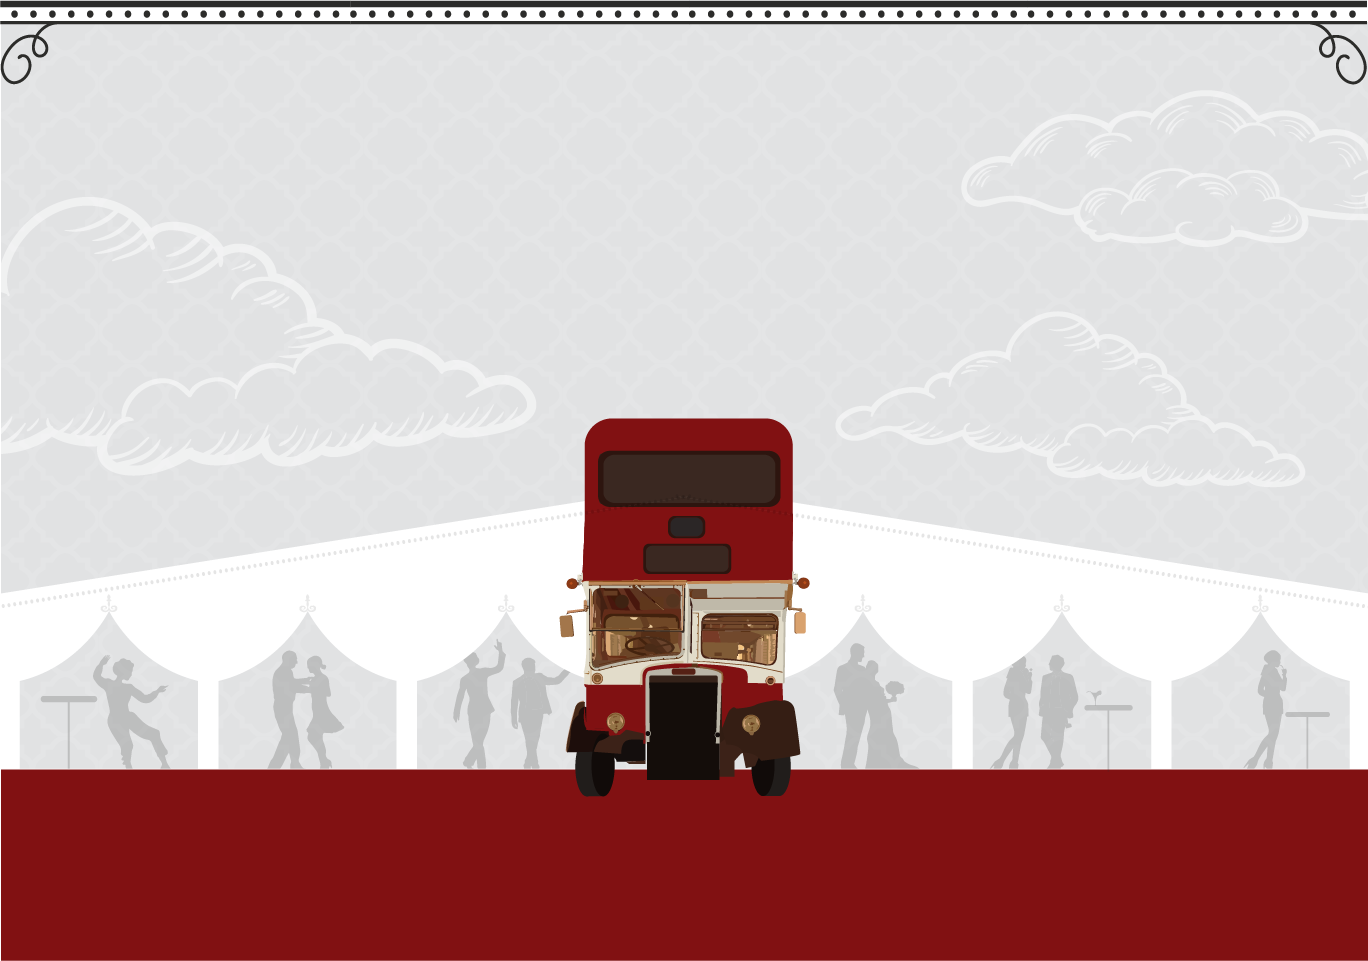
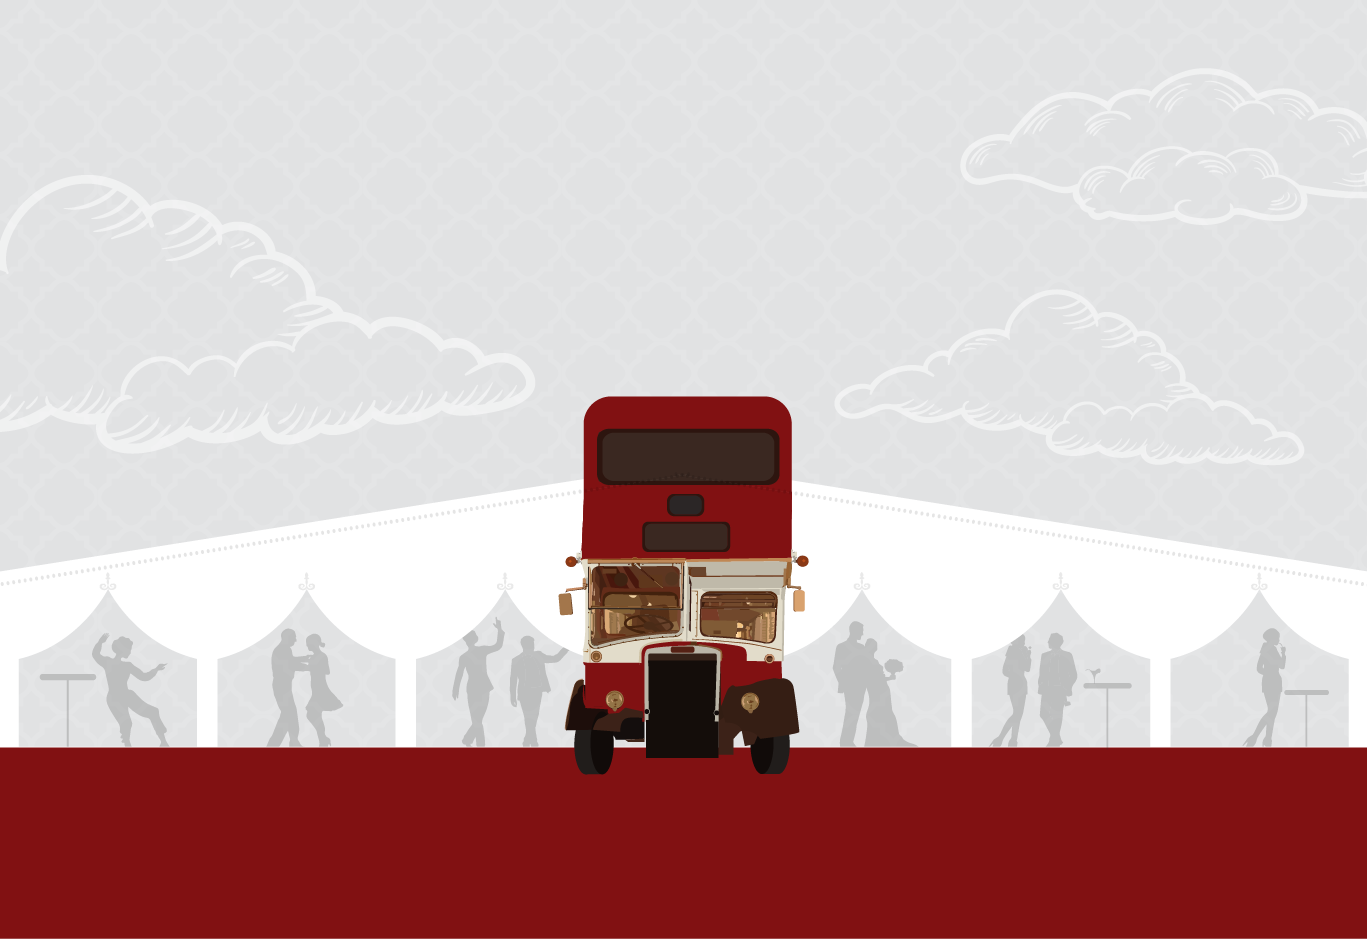
fixed parteis page components

diff --git a/src/components/VenueSection.js b/src/components/VenueSection.js
@@ -2,7 +2,7 @@ import React from 'react';
 import styled from 'styled-components';
 
 const Section = styled.div`
-  background-image: url(${props => props.FrameBgImage});
+  background-image: url(${props => props.frameBgImage});
   background-repeat: no-repeat;
   background-size: cover;
   .text {
@@ -12,55 +12,33 @@ const Section = styled.div`
     transform: translate(-50%, -50%);
     font-size: 1.6rem;
   }
+  .columns {
+    justify-content: ${props => (props.flex ? 'flex-end' : 'flex-start')};
+  }
 `;
 const ImageWrapper = styled.div`
   position: relative;
 `;
 
-class VenueSection extends React.Component {
-  render() {
-    const {
-      leftFrame,
-      leftText,
-      rightFrame,
-      rightText,
-      leftAlt,
-      rightAlt,
-      FrameBgImage,
-    } = this.props;
-    return (
-      <Section
-        className="hero section is-block is-relative  is-large"
-        FrameBgImage={FrameBgImage}
-      >
-        <div className="container">
-          <div className="columns is-vcentered is-desktop">
-            <div className="column is-5-desktop">
-              <ImageWrapper>
-                <figure className="image">
-                  <img src={leftFrame} alt={leftAlt} />
-                </figure>
-                <p className="text has-text-centered has-text-black">
-                  {leftText}
-                </p>
-              </ImageWrapper>
-            </div>
-            <div className="column is-2" />
-            <div className="column is-5-desktop">
-              <ImageWrapper>
-                <figure className="image">
-                  <img src={rightFrame} alt={rightAlt} />
-                </figure>
-                <p className="text has-text-centered has-text-white">
-                  {rightText}
-                </p>
-              </ImageWrapper>
-            </div>
-          </div>
+const VenueSection = ({ leftFrame, leftText, leftAlt, frameBgImage, flex }) => (
+  <Section
+    className="hero section is-block is-relative  is-large"
+    frameBgImage={frameBgImage}
+    flex={flex}
+  >
+    <div className="container">
+      <div className="columns is-vcentered is-desktop">
+        <div className="column is-5-desktop">
+          <ImageWrapper>
+            <figure className="image">
+              <img src={leftFrame} alt={leftAlt} />
+            </figure>
+            <p className="text has-text-centered has-text-black">{leftText}</p>
+          </ImageWrapper>
         </div>
-      </Section>
-    );
-  }
-}
+      </div>
+    </div>
+  </Section>
+);
 
 export default VenueSection;

diff --git a/src/pages/partiesPage.js b/src/pages/partiesPage.js
@@ -9,35 +9,34 @@ import VenueSection from '../components/VenueSection';
 import DetailsCardSection from '../components/DetailsCardSection';
 import Gallery from '../components/Gallery';
 
-export default class PartiesPage extends React.Component {
-  render() {
-    return (
-      <Layout>
-        <Seo title="Home" description="Welcome to GatsbyJs v1" />
-        <PartiesHero
-          title="Parties for all occasions"
-          partybgImage="/images/parties/photo@2x.png"
-        />
-        <PageHeading
-          subtitle="The bus provides an amazing focal point, and provides
+const PartiesPage = () => (
+  <Layout>
+    <Seo title="Home" description="Welcome to GatsbyJs v1" />
+    <PartiesHero
+      title="Parties for all occasions"
+      partybgImage="/images/parties/photo@2x.png"
+    />
+    <PageHeading
+      title="The bus provides an amazing focal point, and provides
           many different zones for your party."
-        />
-        <StagesSection title="Stages" />
-        <VenueSection
-          leftFrame="/images/parties/frame@2x.png"
-          leftText="We remain on site to look after everything from start to finish."
-          leftAlt="main"
-          FrameBgImage=" /images/parties/photo-black-and-white@2x.png"
-        />
-        <DetailsCardSection />
-        <VenueSection
-          rightFrame="/images/parties/rightframes.png"
-          rightText="Your guests will be amazed when they walk into the marquee and see a double decker bus inside. "
-          rightAlt="main"
-          FrameBgImage=" /images/parties/photo-black-and-white@2x.png"
-        />
-        <Gallery />
-      </Layout>
-    );
-  }
-}
+    />
+    <StagesSection />
+    <VenueSection
+      leftFrame="/images/parties/frame@2x.png"
+      leftText="We remain on site to look after everything from start to finish."
+      leftAlt="main"
+      frameBgImage="/images/parties/photo-black-and-white@2x.png"
+    />
+    <DetailsCardSection />
+    <VenueSection
+      flex
+      leftFrame="/images/parties/rightframes.png"
+      leftText="Your guests will be amazed when they walk into the marquee and see a double decker bus inside. "
+      leftAlt="main"
+      frameBgImage="/images/parties/photo-black-and-white@2x.png"
+    />
+    <Gallery />
+  </Layout>
+);
+
+export default PartiesPage;

diff --git a/src/components/StagesSection.js b/src/components/StagesSection.js
@@ -4,36 +4,36 @@ import Stages from './Stages';
 
 import Heading from './elments/Heading';
 
-class StagesSection extends React.Component {
-  render() {
-    const { title } = this.props;
-    return (
-      <section className="section">
-        <div className="container">
-          <Heading title={title} />
-          <div className="columns is-multiline">
-            <Stages
-              title="1. Choose your location"
-              subtitle="We can bring our unique venue to a location of your choosing, or
+const StagesSection = () => (
+  <section className="section">
+    <div className="container">
+      <Heading heading="THREE SIMPLE STAGES" />
+      <div className="columns is-multiline">
+        <Stages
+          title="1. Choose your location"
+          subtitle="We can bring our unique venue to a location of your choosing, or
               you can host your party at our fully-equipped event space in the
               Coleshill"
-            />
-            <Stages
-              title="1. Choose your location"
-              subtitle="We can bring our unique venue to a location of your choosing, or
+          image="/images/parties/icon@2x.png"
+          alt="dddddd" // change this as per your image
+        />
+        <Stages
+          title="1. Choose your location"
+          subtitle="We can bring our unique venue to a location of your choosing, or
               you can host your party at our fully-equipped event space in
               Coleshill"
-            />
-            <Stages
-              title="1. Choose your location"
-              subtitle="We can bring our unique venue to a location of your choosing, or
+          image="/images/parties/icon@2x.png"
+        />
+        <Stages
+          title="1. Choose your location"
+          subtitle="We can bring our unique venue to a location of your choosing, or
               you can host your party at our fully-equipped event space in
               Coleshill"
-            />
-          </div>
-        </div>
-      </section>
-    );
-  }
-}
+          image="/images/parties/icon@2x.png"
+        />
+      </div>
+    </div>
+  </section>
+);
+
 export default StagesSection;

diff --git a/src/pages/hire.js b/src/pages/hire.js
@@ -27,16 +27,16 @@ export default class HirePage extends React.Component {
         />
         <HireOptionItem
           flex
-          image="/images/hire/bus.png"
-          option="Hire Option 1"
+          image="/images/hire/bus-house.png"
+          option="Hire Option 2"
           title="Vintage Bus Bar"
           description="You can hire our fabulous vintage bus bar
           to give your event a stand out bar."
           price="£500.00"
         />
         <HireOptionItem
-          image="/images/hire/bus.png"
-          option="Hire Option 1"
+          image="/images/hire/bar-bus.png"
+          option="Hire Option 3"
           title="Vintage Bus Bar"
           description="You can hire our fabulous vintage bus bar
           to give your event a stand out bar."
@@ -44,8 +44,8 @@ export default class HirePage extends React.Component {
         />
         <HireOptionItem
           flex
-          image="/images/hire/bus.png"
-          option="Hire Option 1"
+          image="/images/hire/bus-decoration.png"
+          option="Hire Option 4"
           title="Vintage Bus Bar"
           description="You can hire our fabulous vintage bus bar
           to give your event a stand out bar."

diff --git a/src/components/PartiesHero.js b/src/components/PartiesHero.js
@@ -23,13 +23,16 @@ const Section = styled.div`
     align-items: center;
     justify-content: center;
   }
+  h1 {
+    font-size: 4rem;
+  }
 `;
 
 class PartiesHero extends React.Component {
   render() {
     const { title, partybgImage } = this.props;
     return (
-      <Section className="section  is-medium" partybgImage={partybgImage}>
+      <Section className="section is-medium" partybgImage={partybgImage}>
         <div className="image-wrapper">
           <figure className="image is-128x128">
             <img src="/images/parties/disco-ball-copy@2x.png" alt="" />
@@ -41,7 +44,7 @@ class PartiesHero extends React.Component {
               <figure className="">
                 <img src="/images/parties/t2x.png" alt="" />
               </figure>
-              <h1 className="title is-1  is-size-4-mobile centered has-text-white">
+              <h1 className="title is-size-4-mobile centered has-text-white">
                 {title}
               </h1>
             </div>

diff --git a/src/components/Stages.js b/src/components/Stages.js
@@ -4,21 +4,21 @@ import styled from 'styled-components';
 
 const ImageWrapper = styled.div`
   justify-content: center;
+  .image.is-128x128 {
+    height: 14rem;
+    width: 14rem;
+  }
 `;
 class Stages extends React.Component {
   render() {
-    const { title, subtitle } = this.props;
+    const { title, subtitle, image, alt } = this.props;
     return (
       <section className="column is-4 is-multiline">
         <div className="card-content">
           <div className="card-image">
             <ImageWrapper className="media align">
               <figure className="image is-128x128">
-                <img
-                  className="is-rounded"
-                  src="/images/parties/icon@2x.png"
-                  alt=""
-                />
+                <img className="is-rounded" src={image} alt={alt} />
               </figure>
             </ImageWrapper>
           </div>

diff --git a/src/components/HomeHero.js b/src/components/HomeHero.js
@@ -8,20 +8,20 @@ const Section = styled.section`
   background-repeat: no-repeat;
   background-position: center;
   background-size: cover;
-  /* flex: 30 !important; */
   .columns.is-centered {
-    /* margin-top: 40rem; */
-    align-items: flex-end;
+    margin-top: 40rem;
   }
 `;
 
 const MovingLeftContainer = styled.div`
   position: absolute;
   left: 0;
+  bottom: 9rem;
 `;
 const MovingRightContainer = styled.div`
   position: absolute;
   right: 0;
+  bottom: 9rem;
 `;
 
 const FireworkContainer = styled.div`
@@ -57,7 +57,7 @@ const HomeHero = () => {
   // }, []);
 
   return (
-    <Section className="section is-large">
+    <Section className="section">
       <div className="container">
         <figure className="image">
           <img src="/images/home/title-banner@2x.png" alt="" />

diff --git a/src/components/PageHeading.js b/src/components/PageHeading.js
@@ -15,10 +15,14 @@ const PageHeading = props => {
       <div className="container">
         <div className="columns is-centered">
           <div className="column has-text-centered">
-            <h1 className="title is-1 has-text-white is-spaced">{title}</h1>
-            <h1 className="subtitle is-3 has-text-white has-text-centered">
-              {subtitle}
-            </h1>
+            {title && (
+              <h1 className="title is-1 has-text-white is-spaced">{title}</h1>
+            )}
+            {subtitle && (
+              <h1 className="subtitle is-3 has-text-white has-text-centered">
+                {subtitle}
+              </h1>
+            )}
           </div>
         </div>
       </div>

diff --git a/src/components/elments/Heading.js b/src/components/elments/Heading.js
@@ -6,13 +6,13 @@ const Wrapper = styled.h1`
   letter-spacing: 0.2rem;
 `;
 
-const Heading = ({ title, size, color }) => (
+const Heading = ({ heading, size, color }) => (
   <Wrapper
     className={`title has-text-weight-semibold is-spaced has-text-centered ${size ||
       'is-1'}`}
     color={color}
   >
-    {title}
+    {heading}
   </Wrapper>
 );
 

diff --git a/src/components/DetailsCard.js b/src/components/DetailsCard.js
@@ -6,7 +6,7 @@ const Section = styled.div`
     background-image: url(/images/events/frame@2x.png);
     background-size: cover;
     background-repeat: no-repeat;
-    min-height: 50rem;
+    min-height: 58rem;
     padding-top: 8rem;
   }
 `;

diff --git a/src/components/HireOptionItem.js b/src/components/HireOptionItem.js
@@ -6,6 +6,9 @@ const Section = styled.section`
   .columns {
     flex-direction: ${props => (props.flex ? 'row-reverse' : '')};
   }
+  .column {
+    align-self: center;
+  }
   .content {
     padding: 3rem 6.5rem;
   }
